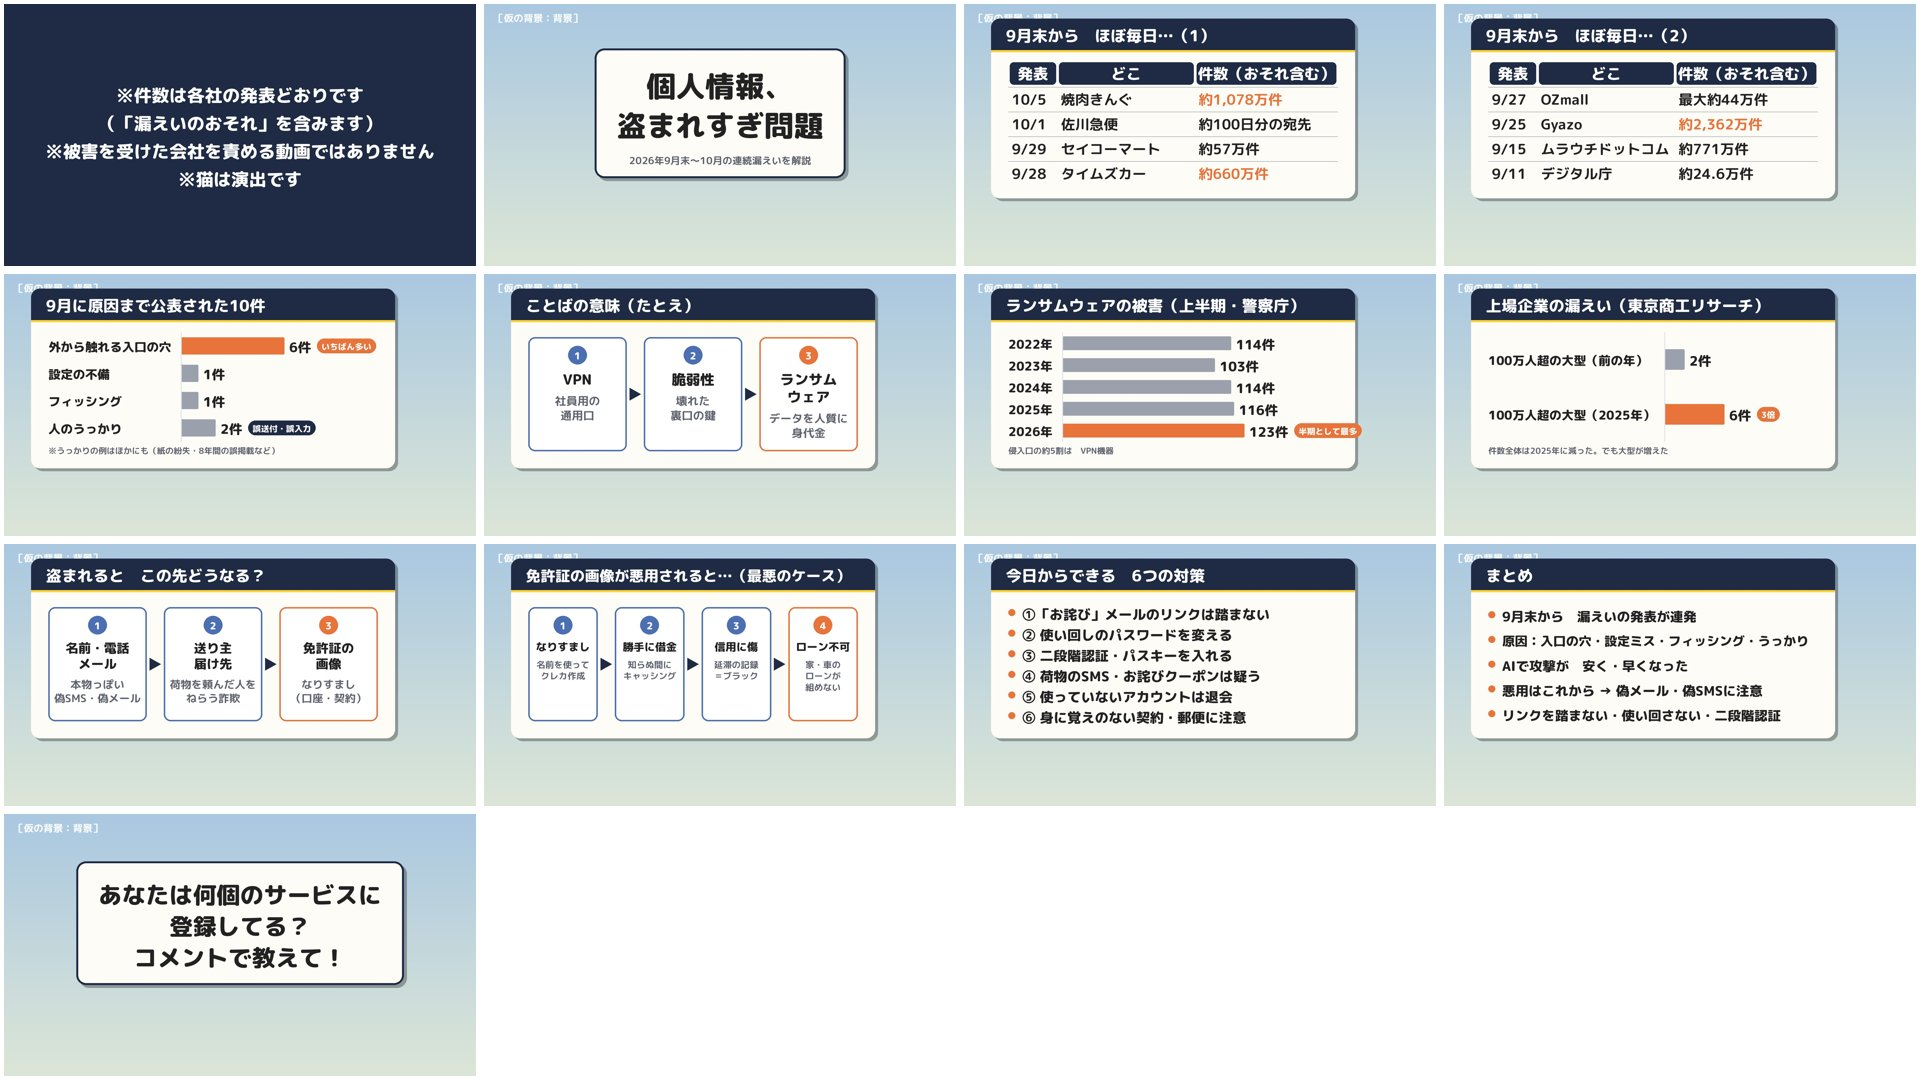
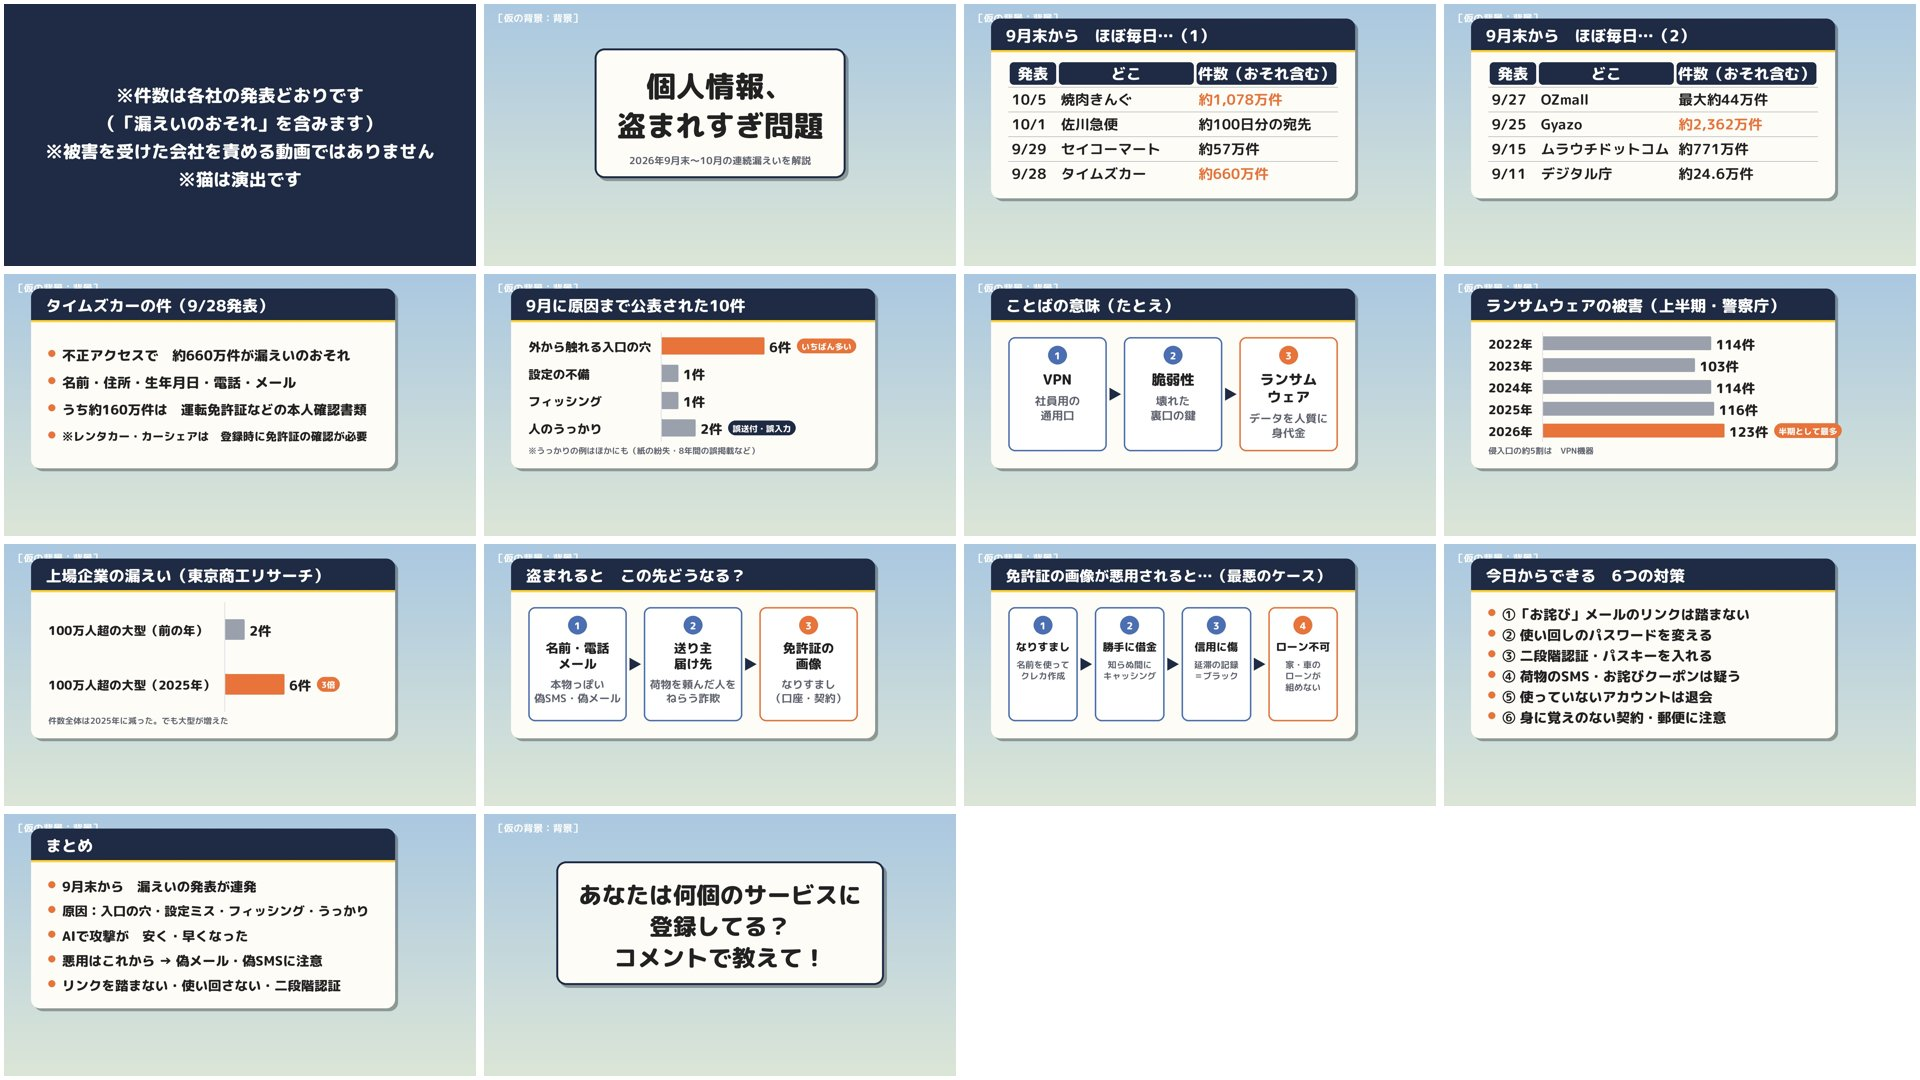
4本目：タイムズカーの件の説明カードを追加
Claude-Session: https://claude.ai/code/session_011g9CsrfFD5YswfNSvNDW39

diff --git a/catmeme/cuts_04_leak.py b/catmeme/cuts_04_leak.py
@@ -163,6 +163,9 @@ def cuts_all():
         nn("全部足したら\n日本の人口超えるんじゃ……", se="question_hatena_maou"),
         ss("同じ人が何社にも\n登録してるから\n足しちゃダメなやつな", se="tsukkomi_bishi"),
         close("bg20_counter", "@react", "ニュース猫", "レンタカー予約しただけで\n免許証まで！？", se=["game_mgs_alert"]),
+        dia("e02c_times", "タイムズカーで　何が漏れたかもしれないのか", "bg20_counter", right=S, se="page_turn_01"),
+        dia("e02c_times", "約160万件は　運転免許証などの“本人確認書類”の情報", "bg20_counter", right=S, se="pc_warning"),
+        ss("免許証には\n名前・住所・生年月日・\n顔写真まで載ってるからな", "bg20_counter", se="hyoshigi_02"),
         # ---- 2. なぜ起きているか ----
         chap("なんでこんなに　盗まれるの？", se="quiz_question_01", bgm={"file": NORA, "gain": -2}),
         hk("ふっふっふ……\n入口なんて\nいくらでもあるのよ", se="anime_broly_dedeen"),

diff --git a/catmeme/make_parts_04_leak.py b/catmeme/make_parts_04_leak.py
@@ -54,6 +54,12 @@ ITEMS = {
         ("9/15", "ムラウチドットコム", "約771万件"),
         ("9/11", "デジタル庁", "約24.6万件"),
     ], widths=(200, 560), size=58),
+    "e02c_times": P.bullets("タイムズカーの件（9/28発表）", [
+        "不正アクセスで　約660万件が漏えいのおそれ",
+        "名前・住所・生年月日・電話・メール",
+        "うち約160万件は　運転免許証などの本人確認書類",
+        "※レンタカー・カーシェアは　登録時に免許証の確認が必要",
+    ], size=56),
     "e03_cause": P.bars("9月に原因まで公表された10件", [
         ("外から触れる入口の穴", 6, True, "いちばん多い"),
         ("設定の不備", 1, False, ""),

diff --git a/catmeme/scripts/04_leak.md b/catmeme/scripts/04_leak.md
@@ -59,6 +59,8 @@
 博識な猫「同じ人が何社にも登録してるから　足しちゃダメなやつな」
 ニュース猫「レンタカー予約しただけで　免許証まで！？」（赤）
 博識な猫「タイムズカーは本人確認の書類が約160万件　漏えいのおそれな」
+〔カード：タイムズカーの件〕不正アクセスで約660万件が漏えいのおそれ／名前・住所・生年月日・電話・メール／うち約160万件は運転免許証などの本人確認書類／※レンタカー・カーシェアは登録時に免許証の確認が必要
+博識な猫「免許証には　名前・住所・生年月日・顔写真まで載ってるからな」
 
 ## 2. なぜ起きているか（手口）
 〔区切り〕なんでこんなに　盗まれるの？
